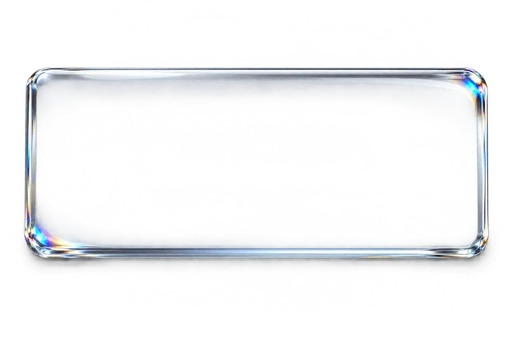
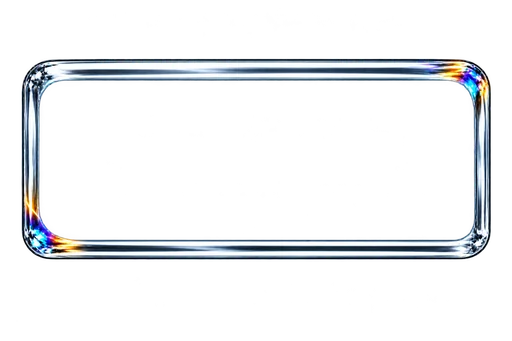
ui: refine glass mode surfaces and subtle elevation

Changed region(s): [[0.0312, 0.176, 0.9688, 0.7918]]

diff --git a/src/features/app-shell/app-shell-header.module.css b/src/features/app-shell/app-shell-header.module.css
@@ -81,14 +81,29 @@
   -webkit-tap-highlight-color: transparent;
 }
 
-/* Keep the rendered reflection in the button; broad light pools and cast
-   shadows outside it would exaggerate the shallow glass edge. */
+/* A short contact shadow separates the glass from the page. Keep the optical
+   surface below the label so the text reads as ink on the front plane. */
 .glassSurface {
   position: absolute;
   z-index: 0;
   inset: 5px 0;
   overflow: clip;
   border-radius: inherit;
+  box-shadow: 0 1px 2px rgb(30 53 69 / 20%), 0 3px 5px rgb(30 53 69 / 8%);
+  pointer-events: none;
+}
+
+.glassSurface::after {
+  content: "";
+  position: absolute;
+  inset: 0;
+  border-radius: inherit;
+  background: linear-gradient(130deg,
+    rgb(255 255 255 / 50%) 0%,
+    rgb(255 255 255 / 24%) 42%,
+    rgb(255 255 255 / 6%) 43%,
+    rgb(65 99 119 / 10%) 76%,
+    rgb(255 255 255 / 12%) 100%);
   pointer-events: none;
 }
 

diff --git a/docs/glass-material-depth-20261031.md b/docs/glass-material-depth-20261031.md
@@ -1,0 +1,37 @@
+# 유리 버튼 표면·입체감 — 로컬 후보
+
+2026-10-31. 사용자가 면 반사+얕은 그림자 안을 확정하고 main 병합·Hosting 배포를 승인했다. 브랜치 `codex/glass-material-depth-20261031`에서 릴리스를 준비한다. 배포 결과는 HANDOFF와 별도 릴리스 기록을 기준으로 확인한다.
+
+## 현재 적용
+
+- 3개/4개 권한용 WebP를 재제작했다. 해상도 600×293/512×341, alpha, 경로 유지. 합계 85,590→48,888B. 버튼 크기·배치·글자·권한·API는 그대로다.
+- 에셋은 절단면과 국소 프리즘을 담당한다. 중앙 명암이 강한 후보는 회색/청색 판처럼 보여 제외했다. 중앙의 투명도 검사 기준은 그대로 유지했다.
+- 사용자 제안에 따라 정적 CSS 면 반사와 짧은 접촉 그림자를 추가했다. 반사는 `glassSurface::after`, 그림자는 보이는 유리 영역에 적용한다. 실제 HTML 글자는 기존 상위 레이어에 남으며 반사·흐림·그림자로 덮지 않는다.
+- 그림자는 `0 1px 2px / 20%`와 `0 3px 5px / 8%`. 큰 외부 광채, 움직이는 광택, 새 라이브러리·필터·JS는 추가하지 않았다. 고대비/forced-colors에서는 기존 규칙대로 장식 유리를 숨긴다.
+- 에셋만 / 밝은 중성 배경판 / 청회색 배경판 / 면 반사 / 면 반사+그림자를 비교했다. 현재는 마지막 조합을 적용한다. 공통 배경판은 메뉴를 무겁게 보여 미리보기 실험으로만 남겼다.
+
+## 조사와 적용 판단
+
+| 1차 자료 | 확인한 원리와 적용 판단 |
+|---|---|
+| [PBRT — Dielectric BSDF](https://pbr-book.org/4ed/Reflection_Models/Dielectric_BSDF) | 반사·투과 비율은 각도에 따라 변한다. 중앙의 약한 면 반사와 가장자리의 강한 반사를 구분했다. |
+| [PBRT — Specular reflection/transmission](https://www.pbr-book.org/4ed/Reflection_Models/Specular_Reflection_and_Transmission) | 파장에 따른 굴절 차이가 분산을 만든다. 전체 무지개 테두리 대신 국소 빛의 분리를 표현했다. |
+| [Edmund Optics — Optical prisms](https://www.edmundoptics.com/knowledge-center/application-notes/optics/introduction-to-optical-prisms/) | 면의 각도·배치·연마·모따기가 광학 요소를 결정한다. 윗면과 네 절단면이 같은 소재로 연결되도록 했다. |
+| [Blender — Bevel](https://docs.blender.org/manual/en/latest/render/shader_nodes/input/bevel.html) | 작은 모서리 곡면이 정반사 하이라이트를 만든다. 두꺼운 검은 외곽선 대신 밝고 어두운 면으로 두께를 표현했다. |
+| [Apple — Meet Liquid Glass](https://developer.apple.com/videos/play/wwdc2025/219/) | 형태에 맞는 하이라이트·굴절·그림자를 함께 구성한다. 효과 하나만 증폭하지 않고 면·절단면·그림자를 비교했다. |
+| [Corning Museum — Glass photography](https://blog.cmog.org/2019/photographing-glass-highly-reflective-black-objects-part-2) | 조명 환경·반사판 제어로 표면을 드러낸다. 사례는 검은 유리이며 투명 버튼과 직접 동일시하지 않았다. 배경 대비 실험에 참고했다. |
+| [Profoto — Glass highlights](https://www.profoto.com/ca/en/still-photography/tips-tricks/how-to-create-highlights-on-a-cocktail-glass) | 반사판·차광으로 가장자리 빛을 제어한다. 백색 반사 방향을 통일하고 불필요한 광채를 줄였다. |
+
+이 구현은 위 원리를 참고한 **정적 시각 표현**이다. 실제 광선 추적·배경 굴절·기기 각도에 반응하는 광학 시뮬레이션이 아니다. 인쇄된 듯한 글자와 최종 소재 만족도는 사용자의 시각 판단이 필요하다.
+
+## 제작·검증
+
+- 내장 imagegen으로 반복 제작했다. 중앙을 비우면 액자처럼 보이고 명암을 높이면 불투명 판처럼 보이는 후보를 제외했다. 최종 에셋은 투명 중앙·매끄러운 절단면·국소 분산에 집중하고 면 반사는 정적 UI 레이어로 분리했다. Sharp는 리사이즈와 WebP 변환에만 사용했다.
+- 최종 PNG: `exec-21713779-3ef7-494b-890f-e1128d335642.png`(3개), `exec-f25e67e5-b399-456e-afe3-6cf75365ce77.png`(4개). 프롬프트·원본 사본·비교 도구·캡처는 ignored `output/glass-material-depth-20261031/`에 보관한다.
+- 최종 관련 단위 **9 PASS**: `brand-assets.test.ts`, `app-shell-header.test.ts`. 용량·alpha·투명도·권한 기준을 완화하지 않았다.
+- 최종 관련 브라우저 **3 PASS**: 여러 폭의 배치·모드/뒤로 가기, S26 360×780/DPR3의 3/4권한·터치 영역·접근성, reduced-motion/forced-colors. `header-layout.spec.ts`에서 해당 사례만 실행했다.
+- 360px/1280px·3/4권한 PNG와 배경/면/그림자 비교 PNG 확인. Aside에서도 실제 로컬 탭을 360×780으로 설정해 확인했다. 모두 합성 헤더이며 실제 Android 기기 검증은 아니다.
+- 전체 회귀·운영 빌드·전체 CI는 반복하지 않았다. 커밋/릴리스 시 범위별 검증 규칙을 적용한다.
+- 이전 후보의 전체 헤더 검사는 49 PASS/1 FAIL(끝점 1px 차이), 단독 재확인은 PASS였다. 이번 3개 통과를 이전 전체 실패 원인 해결이나 전체 50개 통과로 해석하지 않는다.
+
+미리보기: `http://127.0.0.1:4330/?modes=4` (3도 가능). 비교 도구 `compare.mjs` 실행 시 `http://127.0.0.1:4331/compare`.

diff --git a/docs/HANDOFF.md b/docs/HANDOFF.md
@@ -10,6 +10,10 @@
 - 로딩·로그인·유리 모드 버튼과 시작 경로 최적화는 운영 반영됐다. 모드 표기는 `거래처 · 학교 · 영업 · 재고`, 버튼은 권한에 따라 표시한다. [UI 결정](glass-mode-navigation-20261030.md) · [최적화 결과](app-optimization-20261030.md)
 - Android 설치형 PWA의 밝은 화면과 짙은 테마 설정 불일치를 수정했다. **실제 시스템 버튼의 대비 개선은 아직 미확인**이다. [조사와 검증 경계](android-system-bar-20261031.md)
 
+## 로컬 작업
+
+- 유리 버튼 소재 보강 후보: `codex/glass-material-depth-20261031`. 에셋 2개와 정적 면 반사·얕은 그림자 적용, 기존 크기·텍스트 유지. 관련 단위 9개·브라우저 3개 통과, 운영 미반영. [변경과 미리보기](glass-material-depth-20261031.md)
+
 ## 남은 작업
 
 1. **Android 실기기 확인:** 휴대폰 연결이 가능해지면 Chrome 일반 탭과 설치 PWA의 하단 시스템 버튼을 비교한다. 정확한 Android·One UI·Chrome 버전, 밝음/어두움 설정, 재실행·복귀·키보드 상태를 기록한다. 설치 manifest 갱신을 확인하고 앱 삭제·데이터 초기화는 하지 않는다.
